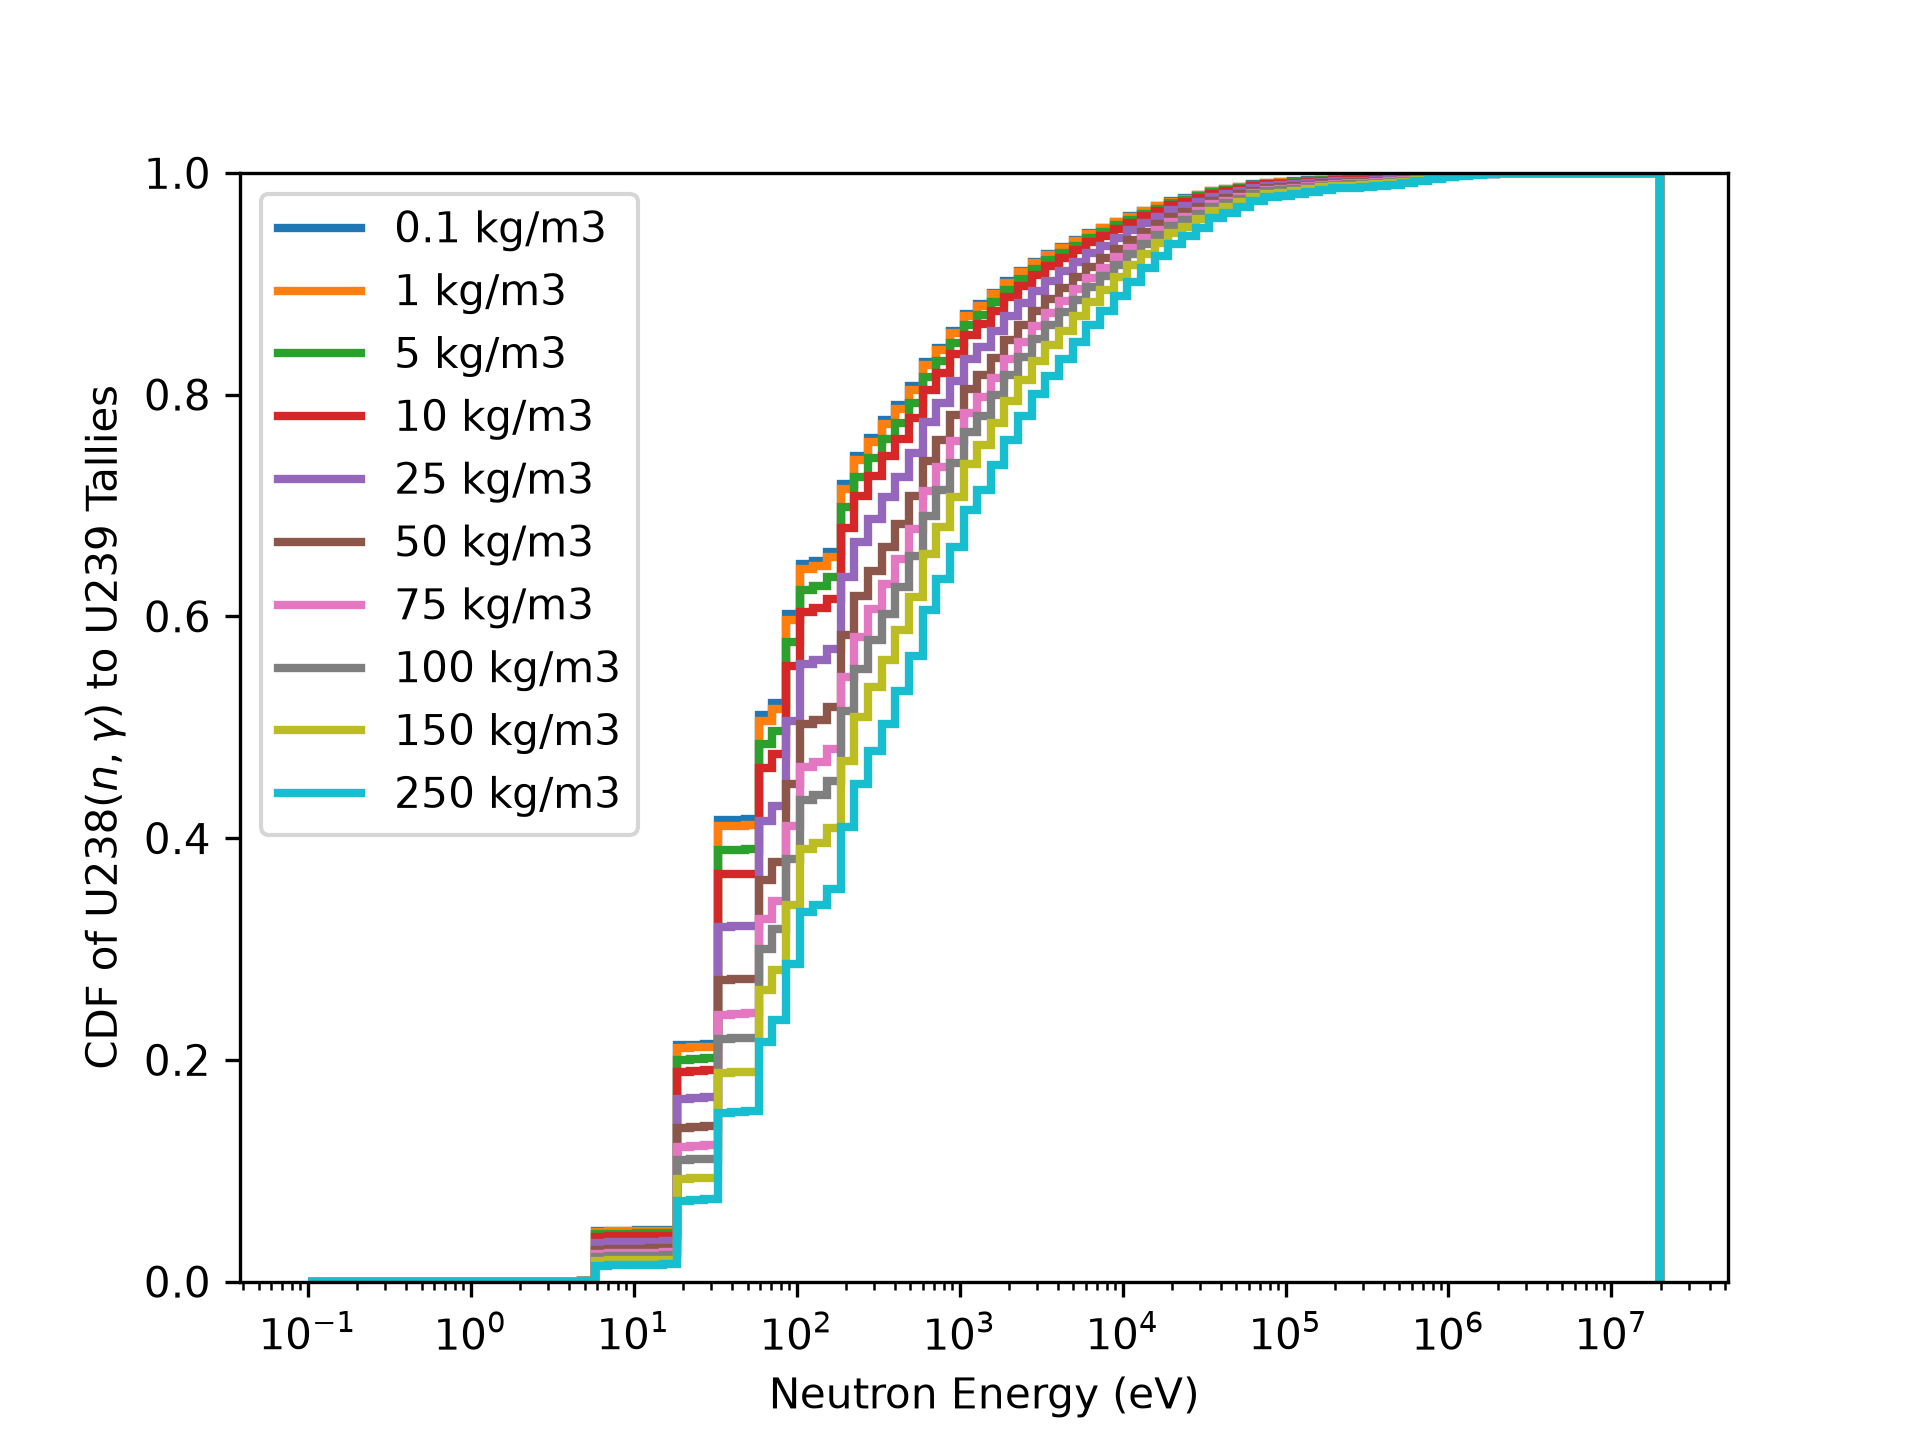
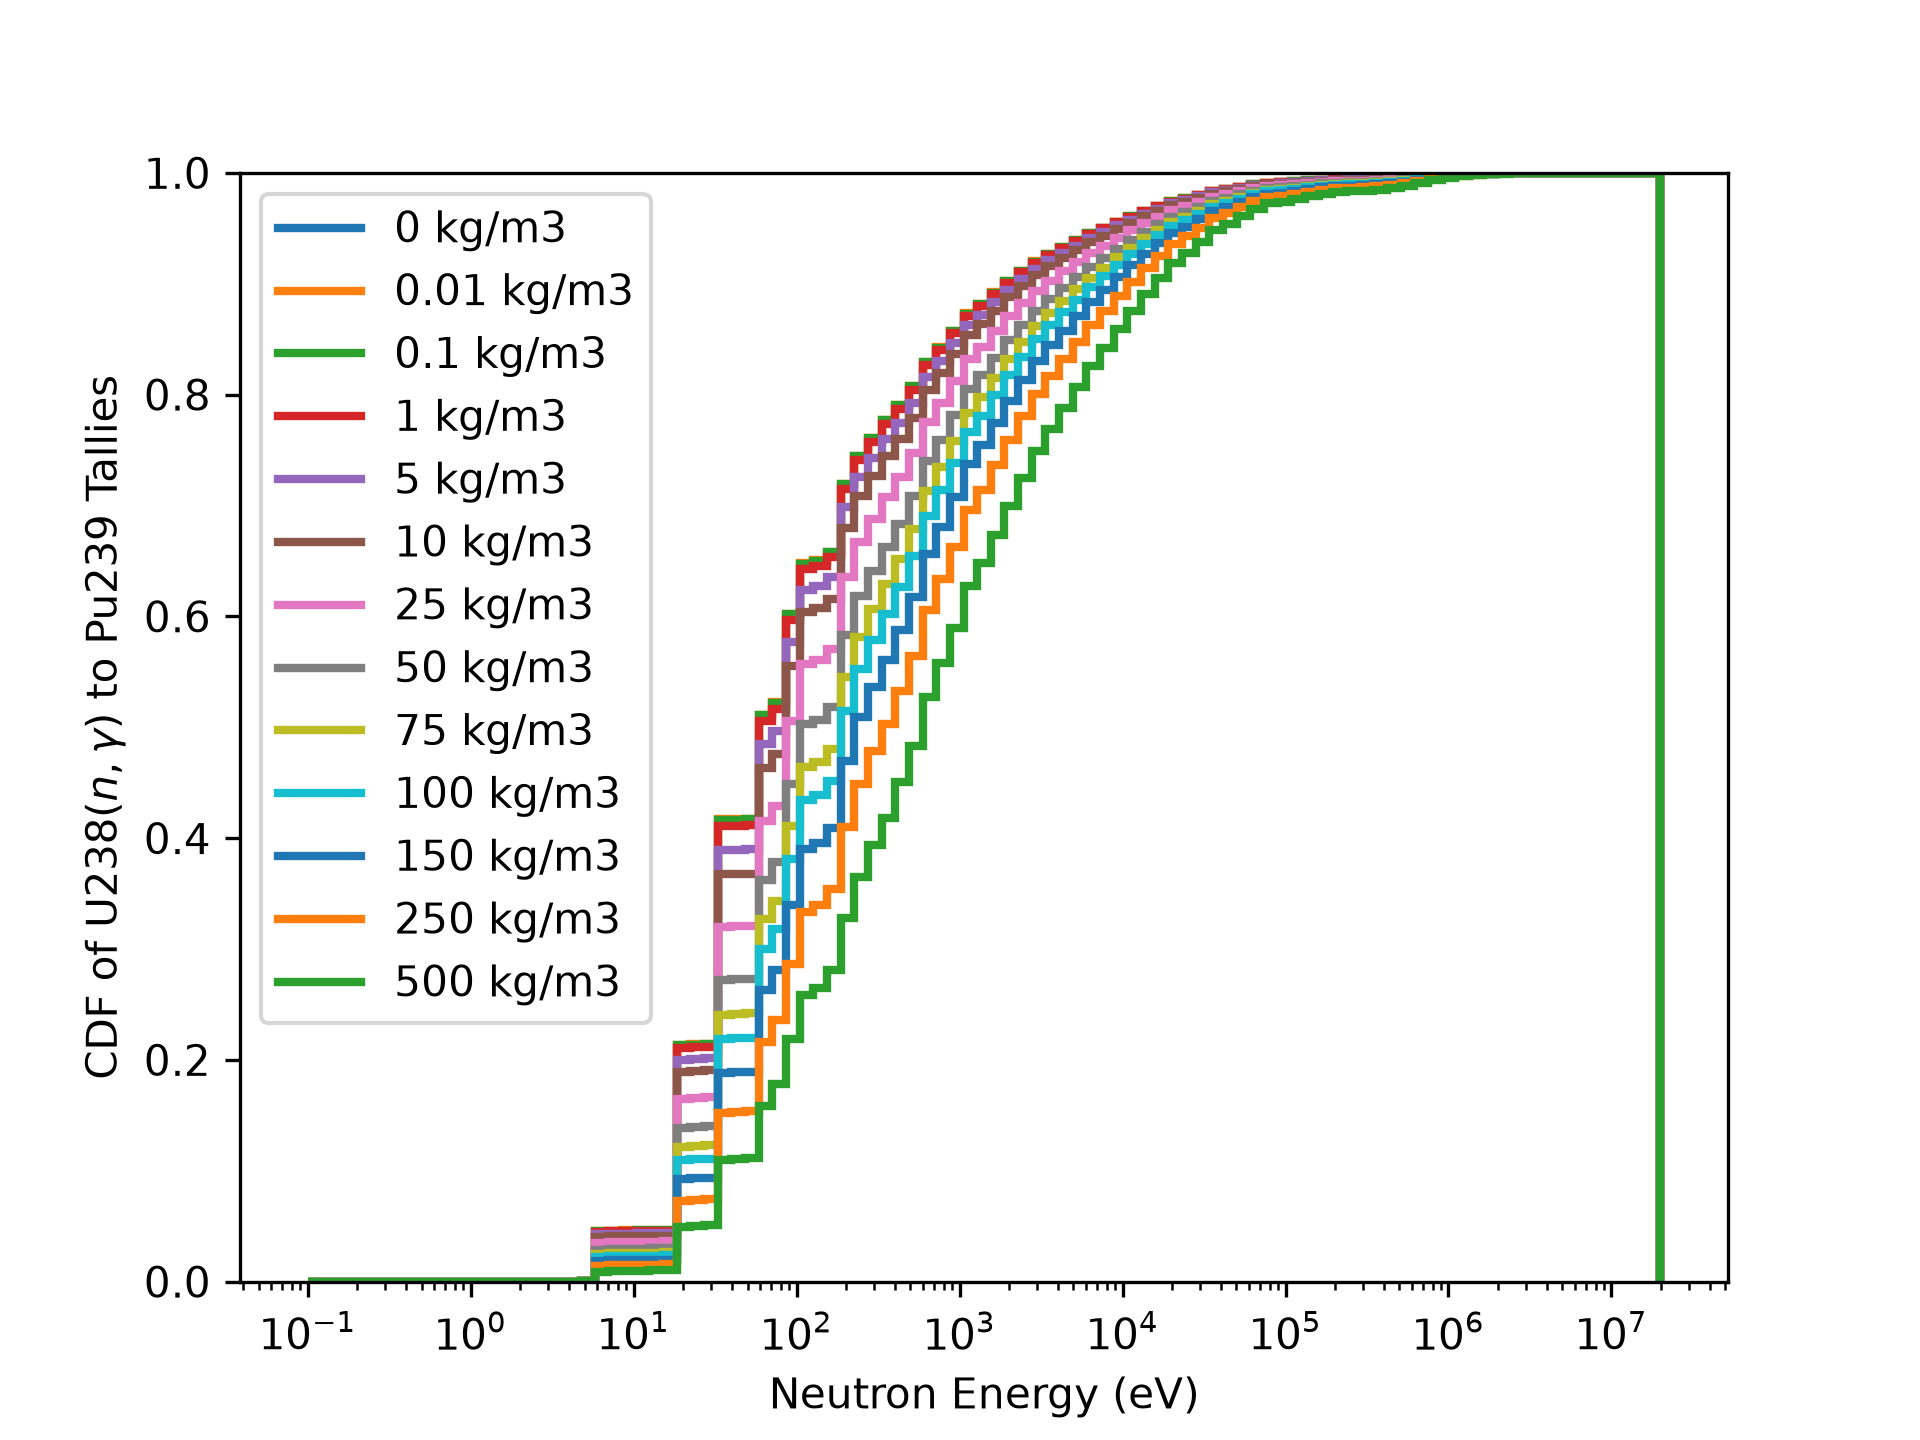
updated CDF plot with correct label

Changed region(s): [[0.125, 0.0938, 0.7812, 0.9062], [0.8438, 0.125, 0.875, 0.875], [0.0312, 0.25, 0.0625, 0.75]]

diff --git a/plot.py b/plot.py
@@ -16,20 +16,20 @@ for loading in density_loadings:
     result = tally.mean.flatten()
     results.append(result)
     
-    # cumulative_result = np.cumsum(result) / np.sum(result)
-    # plt.stairs(cumulative_result, energy_bins, label=f"{loading} kg/m3", linewidth=2)
+    cumulative_result = np.cumsum(result) / np.sum(result)
+    plt.stairs(cumulative_result, energy_bins, label=f"{loading} kg/m3", linewidth=2)
 
 results = np.array(results)
 print(results.shape)
 
 # PLOTTING ###################################################
 # # cdf plot
-# plt.legend()
-# plt.xscale('log')
-# plt.xlabel('Neutron Energy (eV)')   
-# plt.ylabel(r'CDF of U238$(n,\gamma)$ to U239 Tallies')
-# plt.ylim(0,1)
-# plt.savefig('U238_ngamma_cdf.png', dpi=300)
+plt.legend()
+plt.xscale('log')
+plt.xlabel('Neutron Energy (eV)')   
+plt.ylabel(r'CDF of U238$(n,\gamma)$ to Pu239 Tallies')
+plt.ylim(0,1)
+plt.savefig('U238_ngamma_cdf.png', dpi=300)
 
 
 plt.figure()
